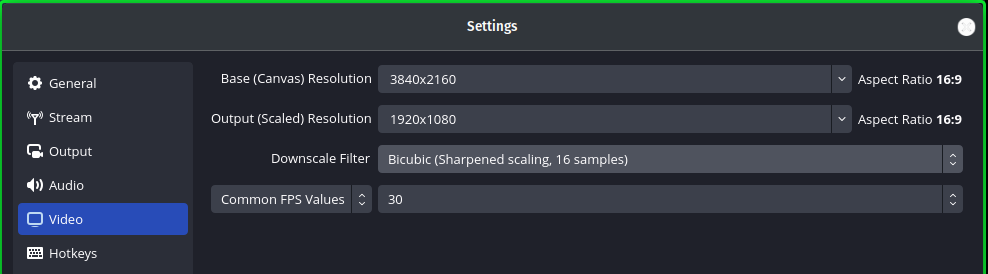
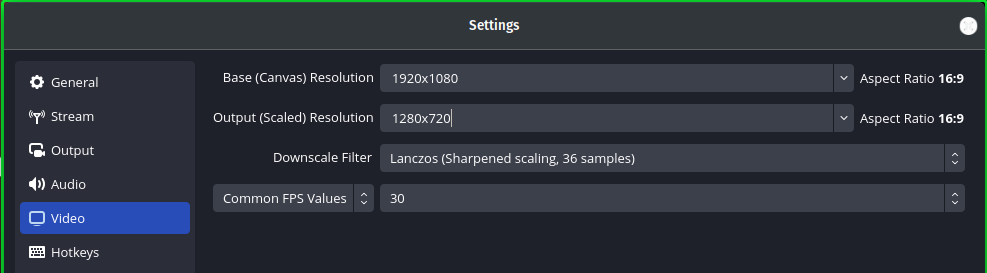
Setting up a basic and advanced section for OBS configurations

diff --git a/live_streaming.md b/live_streaming.md
@@ -116,62 +116,124 @@ try some more advanced settings for even better performance.
 1. Make sure you know what stream software you're using (e.g. OBS, Lovense StreamMaster)
 1. Know your operating system (e.g. Windows 11, MacOS)
 
-### OBS Basic Setup
+### OBS Basic Setup - Recommended for Non-Advanced Users
 
-Avoid using the "OBS Configuration Wizard". We will walk you through the settings.
+**Avoid using the "OBS Configuration Wizard".** We believe that if you use the OBS Configuration Wizard, it can lead to poor stream quality and impact your audience and monetization on the site. We will walk you through the settings.
 
 1. Open your OBS settings, and select the "Stream" tab
-1. Select "Joystick.TV" as the service.
+1. Select `Joystick.TV` as the service.
 1. Your stream key is located in your Joystick [stream settings](https://joystick.tv/stream-settings)
 ![OBS Service Setup](/assets/obs-setup-stream-service.png)
 
-
 1. Select the "Video" tab.
-1. Set your "Output (Scaled) Resolution" based on the max resolution of your camera and upload speed. Use the following table.
-
-| Resolution | Minimum Upload Speed Required |
-|---|---|
-| 853x480 | 5mbps |
-| 1280x720 | 10mbps |
-| 1920x1080 | 15mbps |
-| 2560x1440 | 20mbps |
-| 3840x2160 | 50mbps |
-
-1. Unless you plan on playing high-action FPS games in full screen, we recommend using 30 FPS.
-
+1. Set your "Base (Canvas) Resolution" to your monitor's screen size.
+1. Set your "Output (Scaled) Resolution" to `1280x720`.
+1. Set "Downscale Filter" to `Lanczos`
+1. Set "Common FPS Values" to `30`.
 ![OBS Video Setup](/assets/obs-setup-video-settings.png)
 
+1. Select the "Output" tab.
+1. Set "Output Mode" to `Simple`
+1. Set "Video Bitrate" to `3500 kbps`
+1. Set "Audio Bitrate" to `128`.
+1. Set "Video Encoder" to `Software (x264)`.
+1. Set "Encoder Preset" to `veryfast`.
+![OBS Output Setup](/assets/obs-setup-output-settings.png)
+
+No other setting updates should be needed in order to go-live for your first stream.
+If you're more familiar with OBS and customizing stream settings, skip to the next
+section to help customizing more of the advanced configuration.
+
+> If you have any issues, you can refer to our [Troubleshooting Steps](#troubleshooting-streaming)
+> or join us in our [Discord](https://discord.gg/zKvCf8hrGP) for more help
+
+### OBS Custom Setup - Recommended for Advanced Users
+
+OBS is a very advanced software, and can feel pretty overwhelming
+at times. A single setting being off can mean the difference between a
+smooth and clear stream, and a fuzzy stream. If you're not familiar with these
+options, we recommend starting with the non-advanced settings above first.
+
+Use your camera's max resolution, and internet upload speed to help you
+decide which settings will work best. Be sure to not select any resolution
+or setting that's higher than your computer can handle.
 
 1. Select the "Output" tab.
-1. Set "Output Mode" to "Simple"
-1. Set "Video Bitrate" and "Audio Bitrate" according to your resolution and upload speed. Use the following table.
+1. Set "Output Mode" to `Advanced`
+1. Set your audio codec to use `AAC`.
+1. Your video encoding will depend on your computer's graphics card. A powerful GPU can use "Hardware Encoding". If you're unsure, then start with "Software Encoding".
+1. Use the following tables to adjust other settings based on your camera's max resolution, and internet upload speed as taken from SpeedTest.net.
 
-| Resolution | Video Bitrate | Audio Bitrate |
-|---|---|
-| 853x480 | 1500 kbps | 96 kbps |
-| 1024x576 | 2000 kbps | 96 kbps |
-| 1280x720 | 2500 kbps | 128 kbps |
-| 1920x1080 | 3500 kbps | 160 kbps |
-| 2560x1440 | 4500 kbps | 160 kbps |
-| 3840x2160 | 6000 kbps | 192 kbps |
+**Software Encoding**
 
-1. Set "Video Encoder" to "Software (x264)"
-1. Set "Encoder Preset" to "veryfast"
-![OBS Output Setup](/assets/obs-setup-output-settings.png)
+Software encoding will use more of your CPU. This is a great option
+if your computer does not have a high-end GPU, or if you're playing
+a very intensive GPU based game, and have limited graphics memory.
+
+For this option, you'll see `x264`. Here's some general settings to
+help you get started:
+
+|   | 3840x2160  | 2560x1440 | 1920x1080 | 1280x720 | 853x480 |
+|---|---|---|---|---|---|
+| Video Bitrate  | 6000 kbps  | 4500 kbps | 3500 kbps | 2500 kbps | 1500 kbps |
+| Audio Bitrate | 192 kbps | 160 kbps | 160 kbps | 128 kbps | 96 kbps |
+| Rate Control  | CBR  | CBR | CBR | CBR | CBR |
+| Framerate  | 60 fps | 60 fps | 30 fps | 30 fps | 30 fps |
+| Keyframe Interval  | 2s  | 2s | 2s | 2s | 2s |
+| Preset  | veryfast ~ medium  | veryfast ~ medium | veryfast ~ medium | veryfast ~ medium | veryfast ~ medium |
+| Profile  | Main/High  | Main/High | Main/High | Main/High | Main/High |
+| Tune | (None) | (None) | (None) | (None) | (None) |
+| Upload Speed | 50mbps | 20mbps | 15mbps | 10mbps | 5mbps |
+
+------------------------------------
+**Hardware Encoding**
+
+Hardware encoding will use more of your GPU. This is a great option
+if your computer has a high-end graphics card. It allows your computer
+to do many more things by freeing up your CPU. This is the preferred
+option if your computer has the ability.
+
+There's different types of hardware encoding, but here's some general
+settings related to the `NVIDIA NVENC` encoding.
+
+|   | 3840x2160  | 2560x1440 | 1920x1080 | 1280x720 | 853x480 |
+|---|---|---|---|---|---|
+| Video Bitrate  | 6000 kbps  | 4500 kbps | 3500 kbps | 2500 kbps | 1500 kbps |
+| Audio Bitrate | 192 kbps | 160 kbps | 160 kbps | 128 kbps | 96 kbps |
+| Rate Control  | CBR  | CBR | CBR | CBR | CBR |
+| Framerate  | 60 fps | 60 fps | 30 fps | 30 fps | 30 fps |
+| Keyframe Interval  | 2s  | 2s | 2s | 2s | 2s |
+| Preset  | Quality  | Quality | Quality | Quality | Quality |
+| B-frames  | 2 | 2  | 2 | 2 | 2 |
+| Upload Speed | 50mbps | 20mbps | 15mbps | 10mbps | 5mbps |
 
 
 > If you have any issues, you can refer to our [Troubleshooting Steps](#troubleshooting-streaming)
-> or join us in our Discord for more help
+> or join us in our [Discord](https://discord.gg/zKvCf8hrGP) for more help
 
-## OBS Guides
 
-Streaming from your PC can be quite intensive. There's many different
+**Multistreaming Considerations**
+
+These settings assume you're only streaming to Joystick.TV. If you do plan on doing multistreaming,
+your internet upload speed should increase by the recommended amount for each site you stream to.
+
+For example, if you're streaming to Joystick, and 2 other sites each at 1080p you should have a minimum
+internet upload speed of 45mbps (15mbps for each site).
+
+## Streaming Guides
+
+Streaming from your PC can be quite intensive. There are many different
 factors that can affect the quality of your stream.
 
 * CPU / GPU / RAM / Resources
 * Internet upload speeds
 * Encoder Performance
 * OBS configurations
+* WiFi / Ethernet
+* Network Router
+
+Here is some general knowledge information to help you become an advanced streamer,
+so you can pass along the knowledge and help others!
 
 ### CPU / GPU / RAM / Resources
 
@@ -209,62 +271,51 @@ The higher the bitrate, the more bandwidth you consume. The video quality can be
 If you know your internet upload speeds aren't that fast, you
 can use this information to configure OBS at a lower scale.
 
-To top it all off, your home network also plays in to all of this!
+### Encoder Performance
+Encoding can be difficult on your computer. x264 will use a lot of your CPU, which can cause a lower frame rate. On the other hand, GPU encoding, such as NVIDIA NVENC, makes use of a separate encoder in the GPU. As a result, you can play and stream without sacrificing performance. Start with the veryfast preset if you want to use x264, and then adjust to find the best setting.
+
+### WiFi / Ethernet / Network
+
+Your home network plays a huge roll in all of this.
 Some network routers will allow you to prioritze streaming on the
 network when there's a lot of other devices connected and in use.
+
+If you have the ability to use a "hard-wired" connection (i.e. Ethernet), this
+is highly recommended. WiFi can become "spotty" at times especially with more
+devices connected to your WiFi.
+
+Try restarting your network router from time to time when you notice connection
+issues, or dropped frames. Sometimes a restart can solve many issues.
 
 Our [Discord](https://discord.gg/zKvCf8hrGP) is full of knowledgable people that can give recommendations.
 
 
-### Encoder Performance
-Encoding can be difficult on your computer. x264 will use a lot of your CPU, which can cause a lower frame rate. On the other hand, GPU encoding, such as NVIDIA NVENC, makes use of a separate encoder in the GPU. As a result, you can play and stream without sacrificing performance. Start with the veryfast preset if you want to use x264, and then adjust to find the best setting.
+### FPS and Keyframe Interval
 
-### OBS configurations
+As mentioned above, when you stream, your computer generates static images of your stream
+at a really fast rate. These images are uploaded and converted in to motion pictures or video.
+Your FPS (frames per second) tells your computer to generate these many pictures in 1 second.
+The difference between 30 FPS and 60 FPS can be very slight or sometimes not noticable at all
+depending on what you're streaming.
 
-OBS is a very advanced software, and can feel pretty overwhelming
-for a newcomer to streaming. A single setting being off can mean
-the difference between a smooth and clear stream, and a fuzzy
-stream. We will provide some common settings that work for others.
+For example, say your OBS scene layout has your camera at full screen with no other motion around
+you. The video game you're playing is in a much smaller size window, and you're playing a slower
+pace game like a city builder / simulation game. Because there's not a ton of movement on your scene,
+using 60FPS will use unecessary resources from your computer with almost no extra gain to stream quality.
 
-**Software Encoding**
+Now say that you are using a green screen, and your camera is the smaller window. You're playing a
+first-person shooter in full screen with high action. In this case you have a lot of movement on screen.
+At 30FPS your stream may look a bit "choppy" and not as smooth as you would like.
 
-Software encoding will use more of your CPU. This is a great option
-if your computer does not have a high-end GPU, or if you're playing
-a very intensive GPU based game, and have limited graphics memory.
+This is also where your "Keyframe Interval" comes in to play. Each image generated in your stream is a frame.
+At 30 FPS, you are generating 30 frames per second. A "keyframe" tells the video where to start and end
+these blocks of frames to be rendered. A Keyframe Interval of "2 seconds" tells OBS every 60 frames is
+a video chunk. A Keyframe Interval of "1 second" would say 30 frames is a video chunk. For OBS, setting
+to "0" means "auto" and this requires a lot more processing on both your end and ours.
 
-For this option, you'll see `x264`. Here's some general settings to
-help you get started:
-
-|   | 1080p 60fps  | 1080p 30fps | 720p 60fps | 720p 30fps |
-|---|---|---|---|---|
-| Resolution  | 1920×1080  | 1920×1080 | 1280×720 | 1280×720 |
-| Bitrate  | 6000 kbps  | 4500 kbps | 4500 kbps | 3000 kbps |
-| Rate Control  | CBR  | CBR | CBR | CBR |
-| Framerate  | 60 or 50 fps  | 25 or 30 fps | 60 or 50 fps | 25 or 30 fps |
-| Keyframe Interval  | 2 seconds  | 2 seconds | 2 seconds | 2 seconds |
-| Preset  | veryfast ~ medium  | veryfast ~ medium | veryfast ~ medium | veryfast ~ medium |
-| Profile  | Main/High  | Main/High | Main/High | Main/High |
-
-
-**Hardware Encoding**
-
-Hardware encoding will use more of your GPU. This is a great option
-if your computer has a high-end graphics card. It allows your computer
-to do many more things by freeing up your CPU. This is the preferred
-option if your computer has the ability.
-
-There's different types of hardware encoding, but here's some general
-settings related to the `NVIDIA NVENC` encoding.
-
-|   | 1080p 60fps  | 1080p 30fps | 720p 60fps | 720p 30fps |
-|---|---|---|---|---|
-| Resolution  | 1920×1080  | 1920×1080 | 1280×720 | 1280×720 |
-| Bitrate  | 6000 kbps  | 4500 kbps | 4500 kbps | 3000 kbps |
-| Rate Control  | CBR  | CBR | CBR | CBR |
-| Framerate  | 60 or 50 fps  | 25 or 30 fps | 60 or 50 fps | 25 or 30 fps |
-| Keyframe Interval  | 2 seconds  | 2 seconds | 2 seconds | 2 seconds |
-| Preset  | Quality  | Quality | Quality | Quality |
-| B-frames  | 2  | 2 | 2 | 2 |
+First-person shooter type games with high action generally want higher FPS and lower keyframe intervals
+to maximize the lowest latency and smoothest video. Streams with less motion and action should have a lower
+FPS and higher keyframe interval to reduce strain on the computer and have a clearer picture.
 
 ## Multistreaming
 
